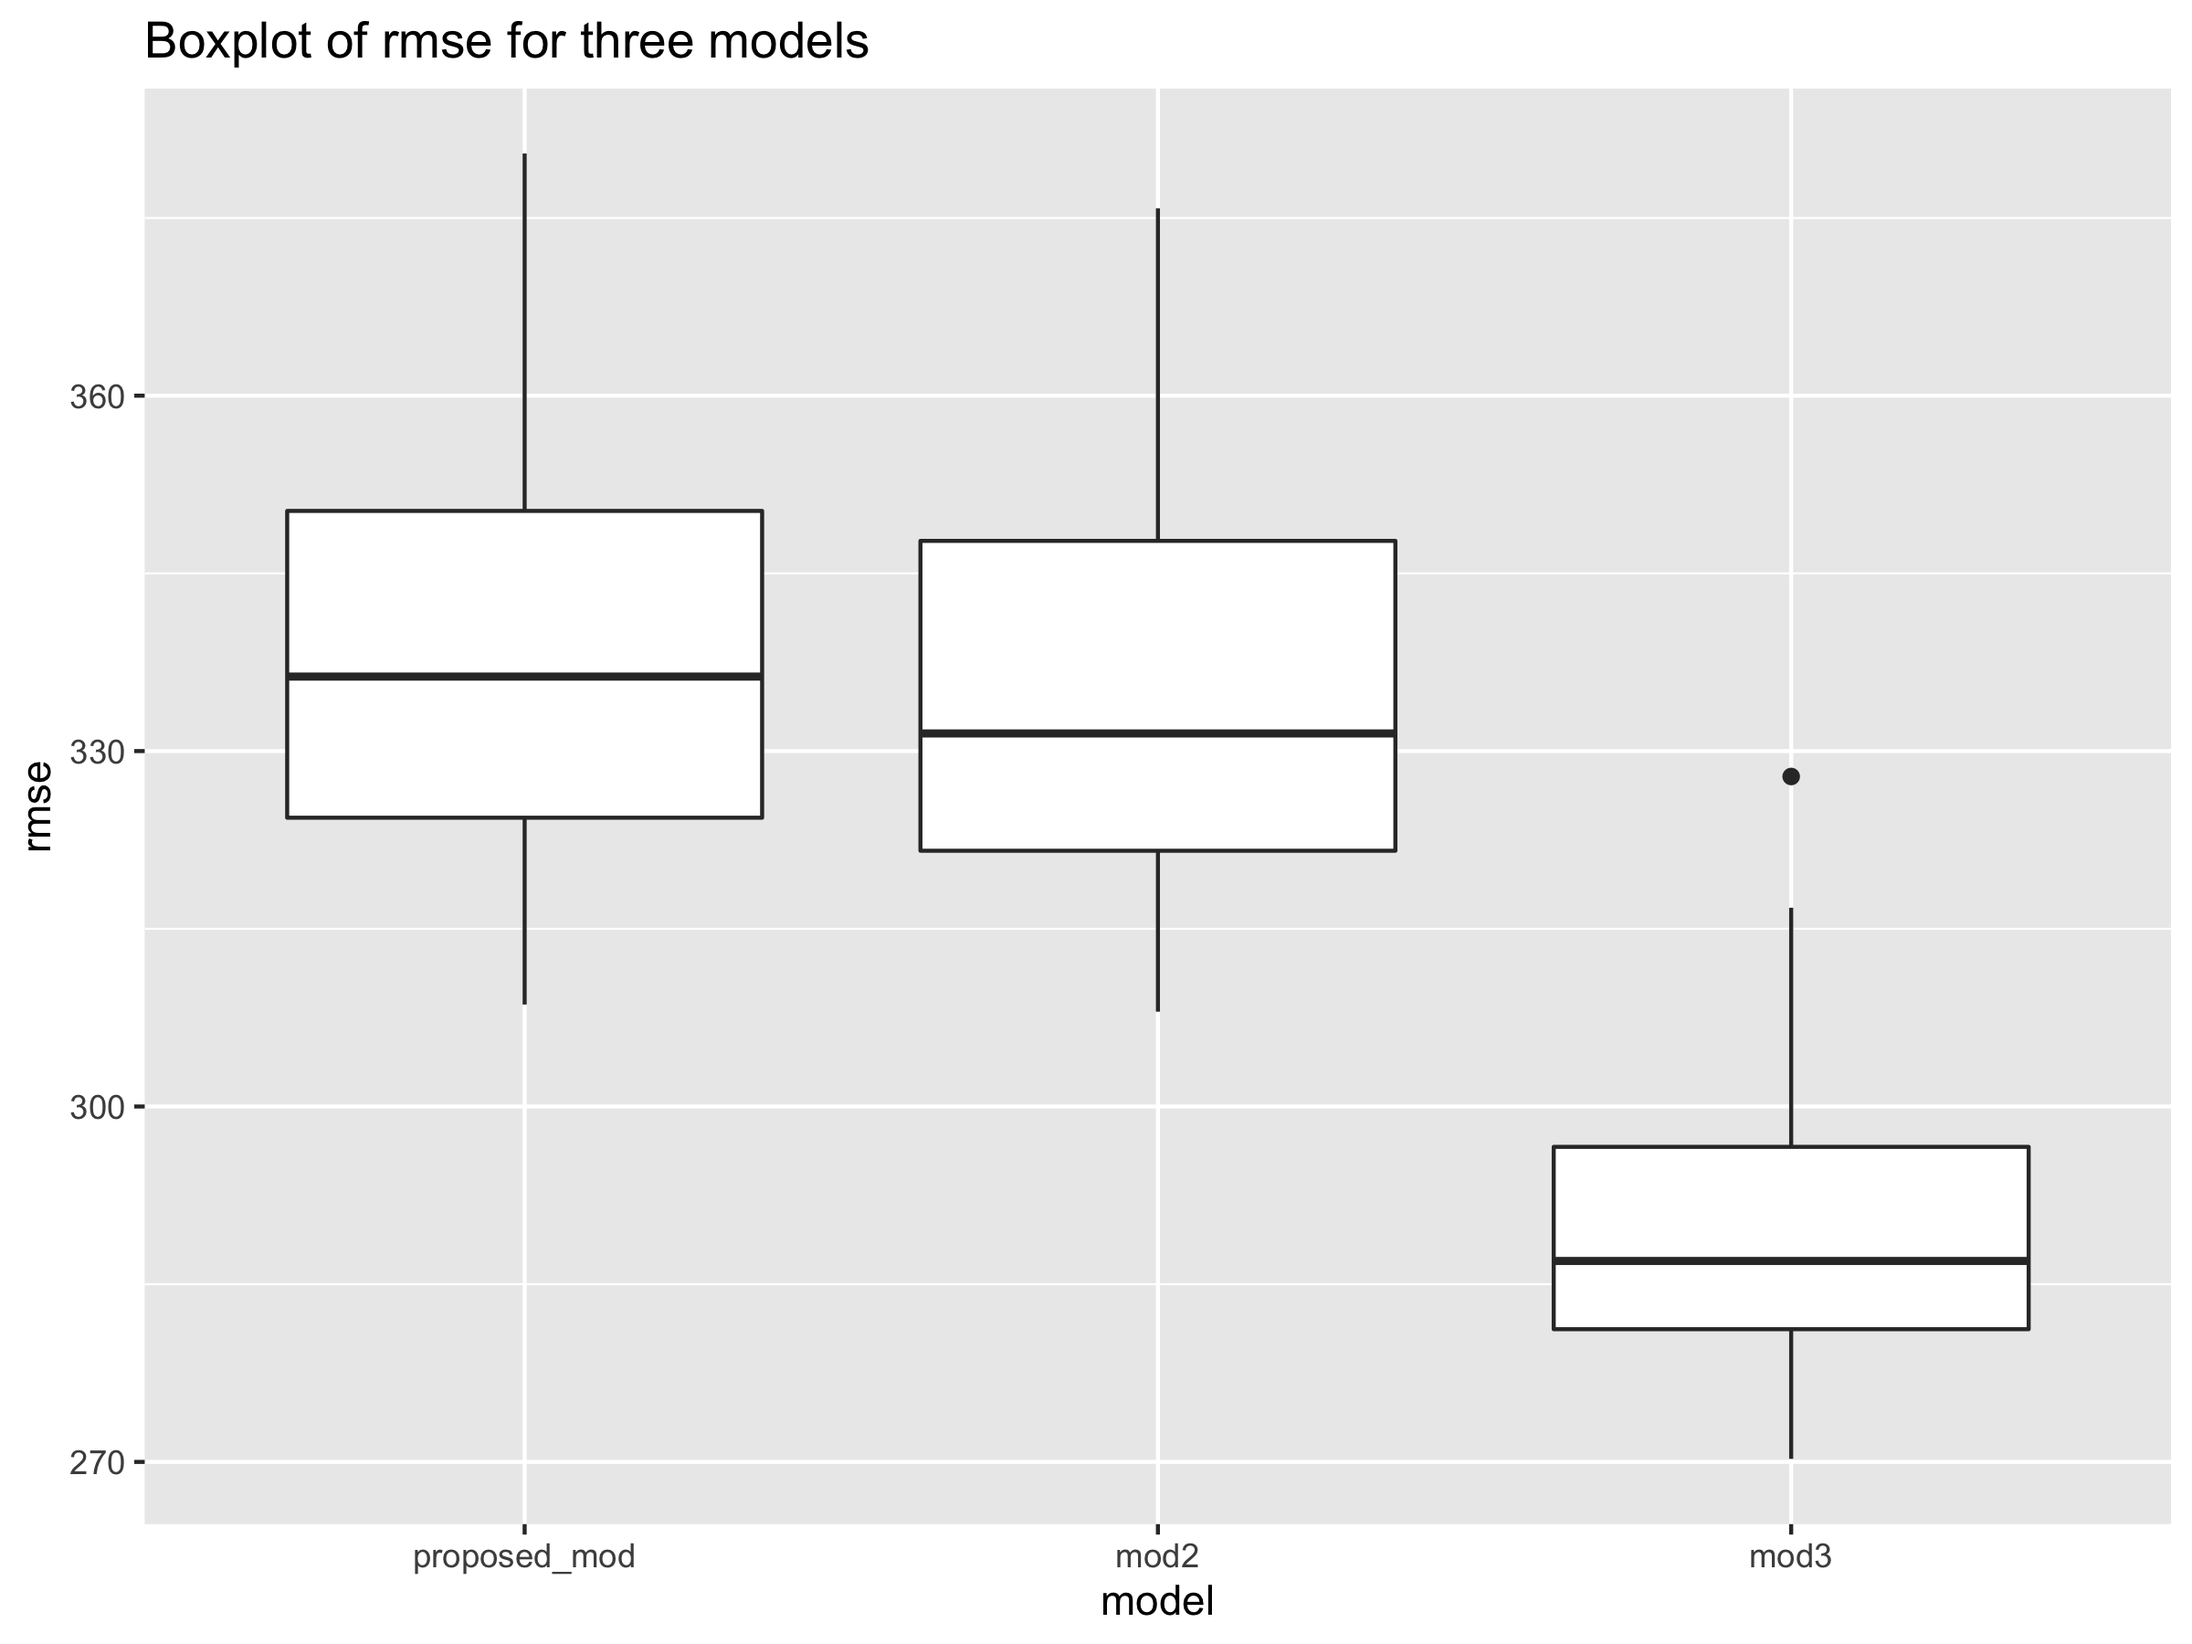
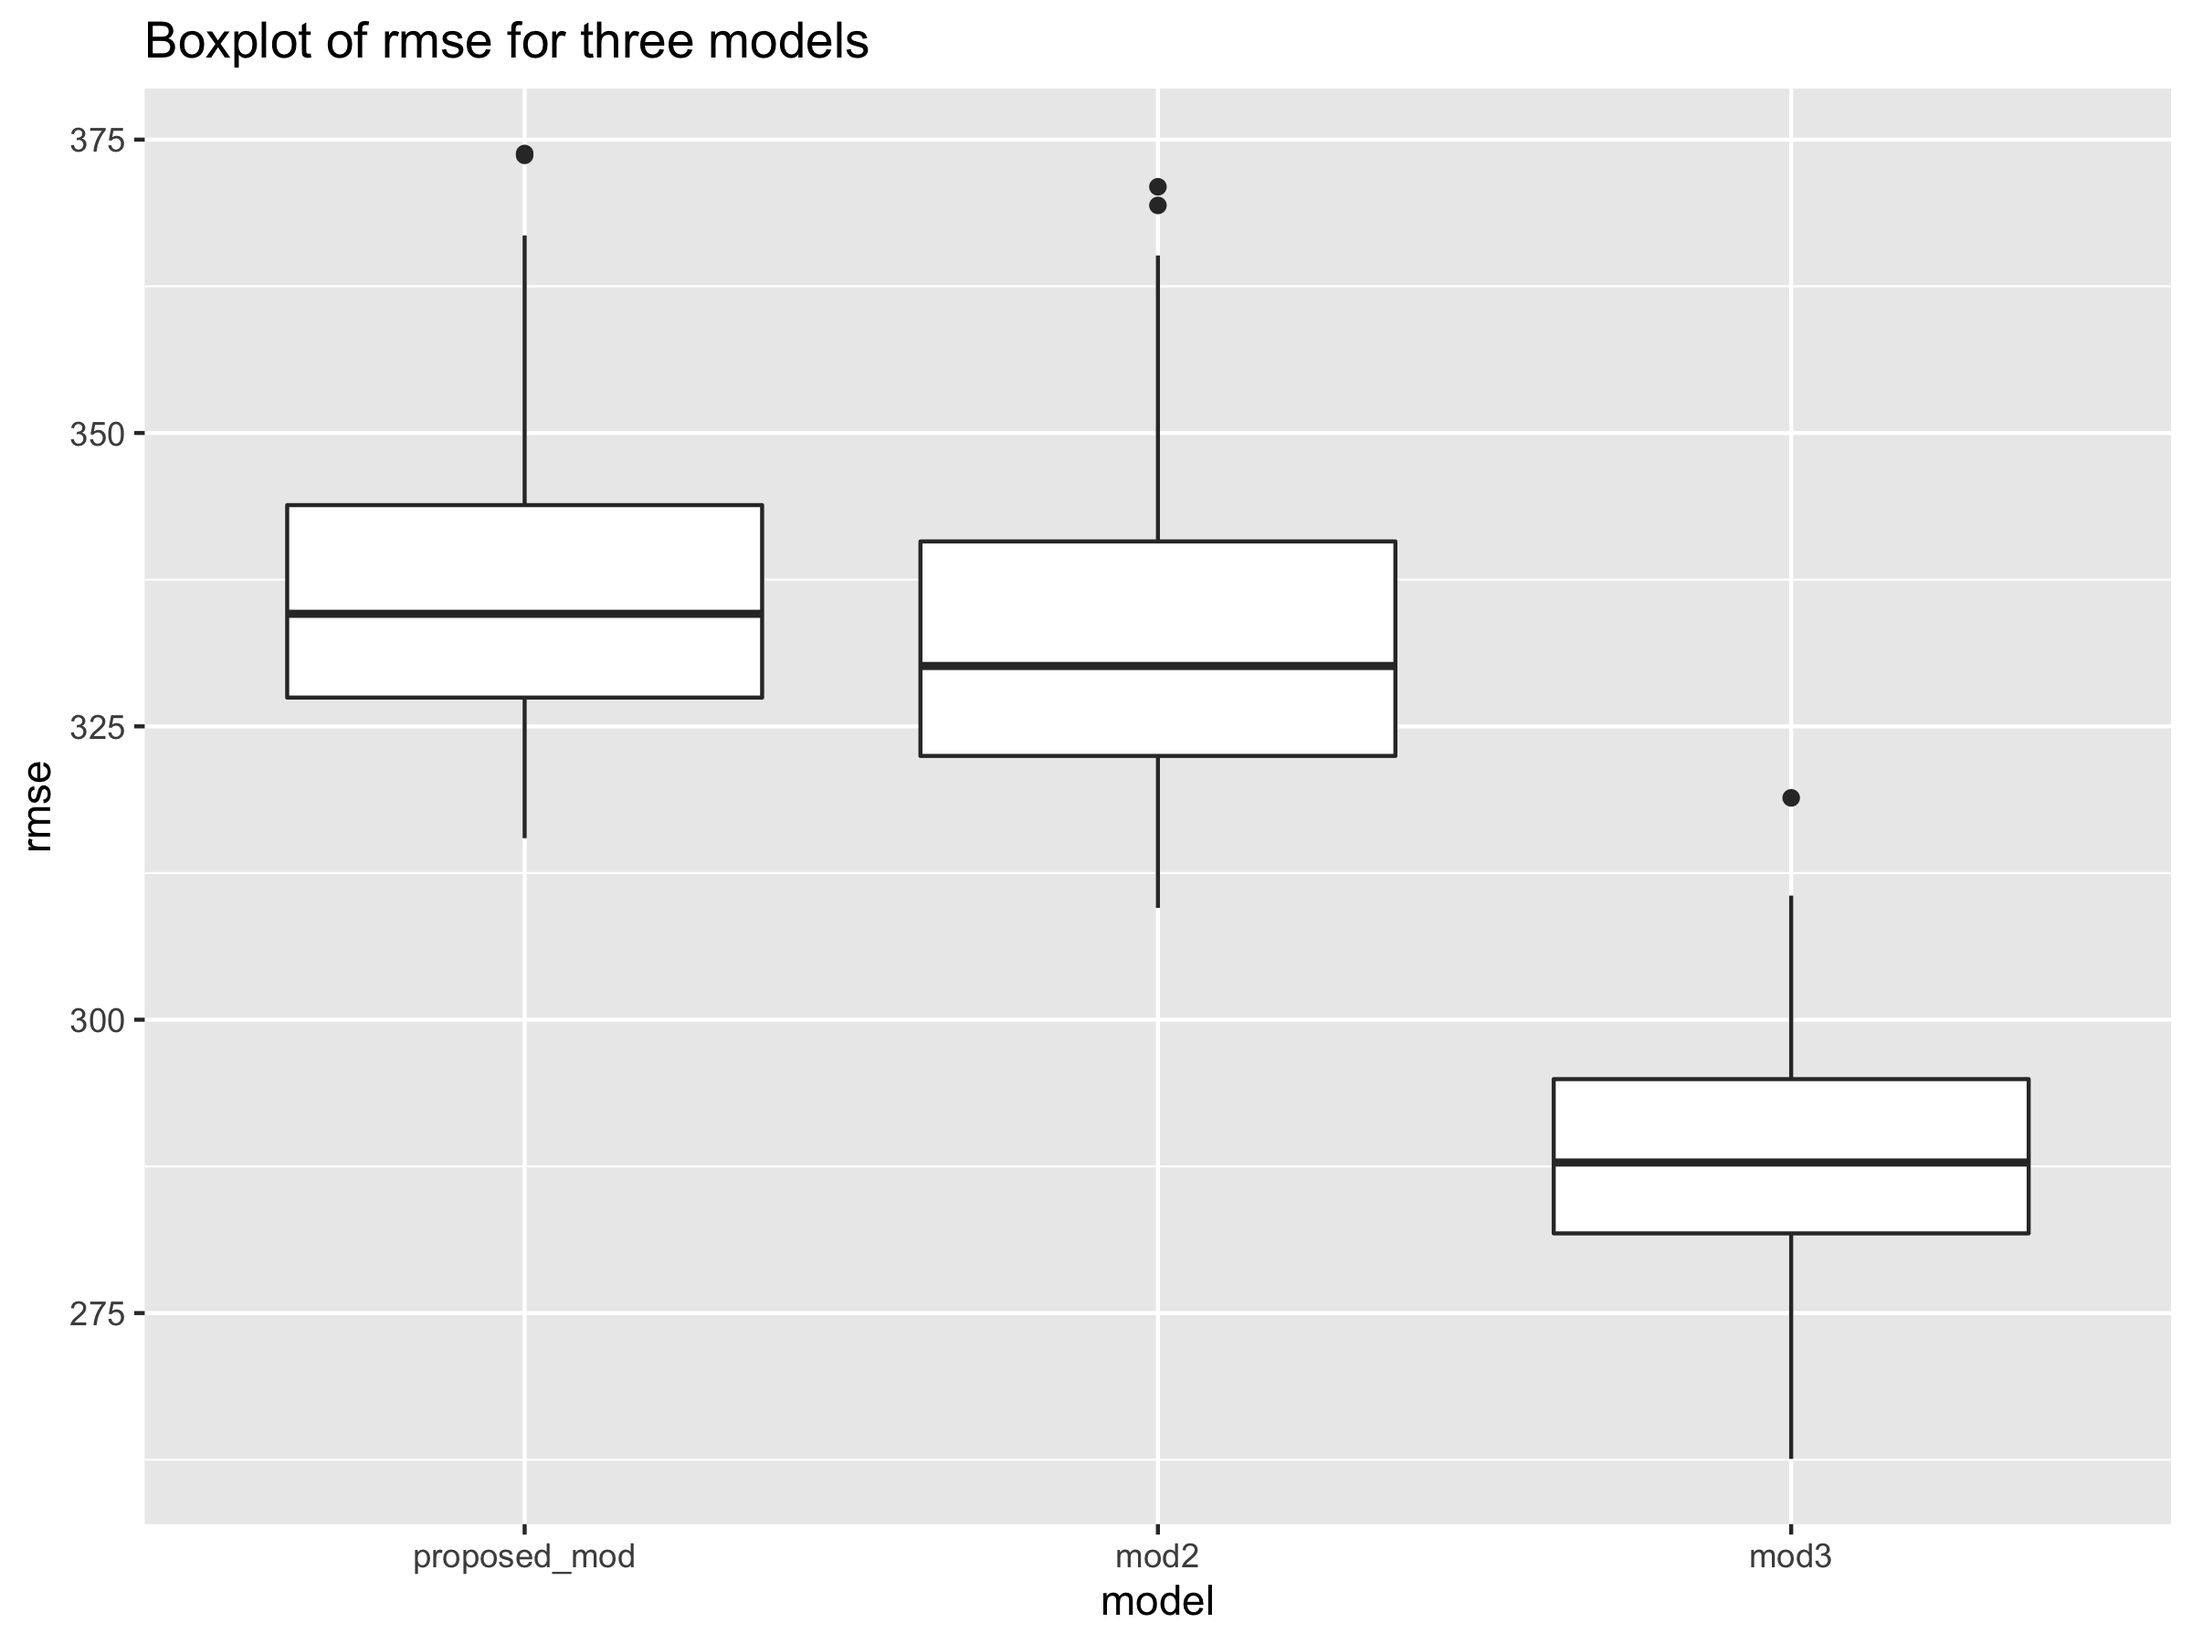
fix bootstrap

diff --git a/P8105_HW6_YZ4181.md b/P8105_HW6_YZ4181.md
@@ -221,6 +221,8 @@ weather_df =
 
 ``` r
 # compute r.squared
+set.seed(1)
+
 boots_straps = weather_df %>% modelr::bootstrap(n = 5000)
 
 r.squared_result = boots_straps %>% 
@@ -263,19 +265,25 @@ log_result_plot =log_result %>% ggplot(aes(x = estimate)) +
   labs(title = "Distribution of log(Bo*B1)",
        x = "log(Bo*B1)")
 
-r.squared_plot + log_result_plot
+r.squared_plot 
 ```
 
 <img src="P8105_HW6_YZ4181_files/figure-gfm/unnamed-chunk-6-1.png" width="80%" />
 
+``` r
+log_result_plot
+```
+
+<img src="P8105_HW6_YZ4181_files/figure-gfm/unnamed-chunk-6-2.png" width="80%" />
+
 -   R.squared is the measure of goodness of fit. The distribution of
-    r.squared is slightly left-skewed, which may related to the
-    frequency of small outliers in the bootstrap sample. The
-    distribution of log(Bo\*B1) is normal distributed around 2.01.
+    r.squared is normal distributed around 0.912. The distribution of
+    log(Bo\*B1) is normal distributed around 2.01.
 
 #### Construct 95%CI for both estimates
 
 ``` r
+# 95% CI for r.squared
 r.squared_result %>% 
   summarize(
     ci_lower = quantile(r.squared, 0.025),
@@ -285,9 +293,10 @@ r.squared_result %>%
 
 | ci\_lower | ci\_upper |
 |----------:|----------:|
-| 0.8933528 | 0.9269907 |
+| 0.8936684 |  0.927106 |
 
 ``` r
+# 95% CI for log(Bo*B1)
 log_result %>% 
   ungroup(id) %>% 
   summarize(
@@ -298,7 +307,7 @@ log_result %>%
 
 | ci\_lower | ci\_upper |
 |----------:|----------:|
-|  1.964447 |  2.060161 |
+|  1.964949 |  2.058887 |
 
 -   The 95% confidence interval for r.squared is (0.894, 0.927).
 
